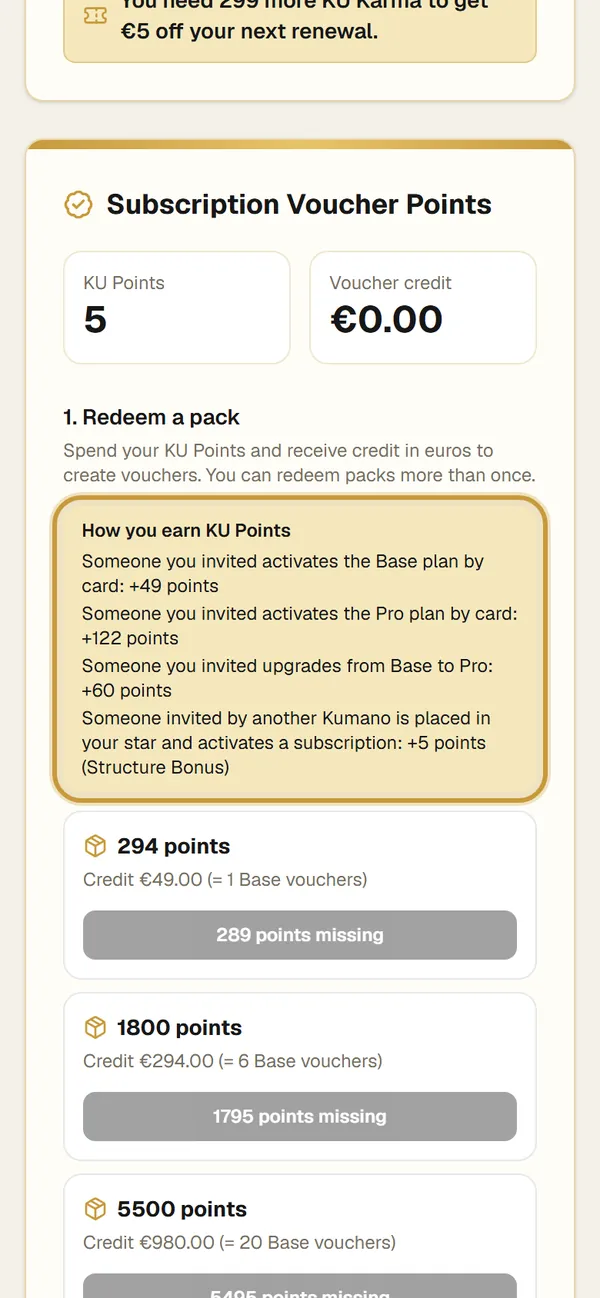
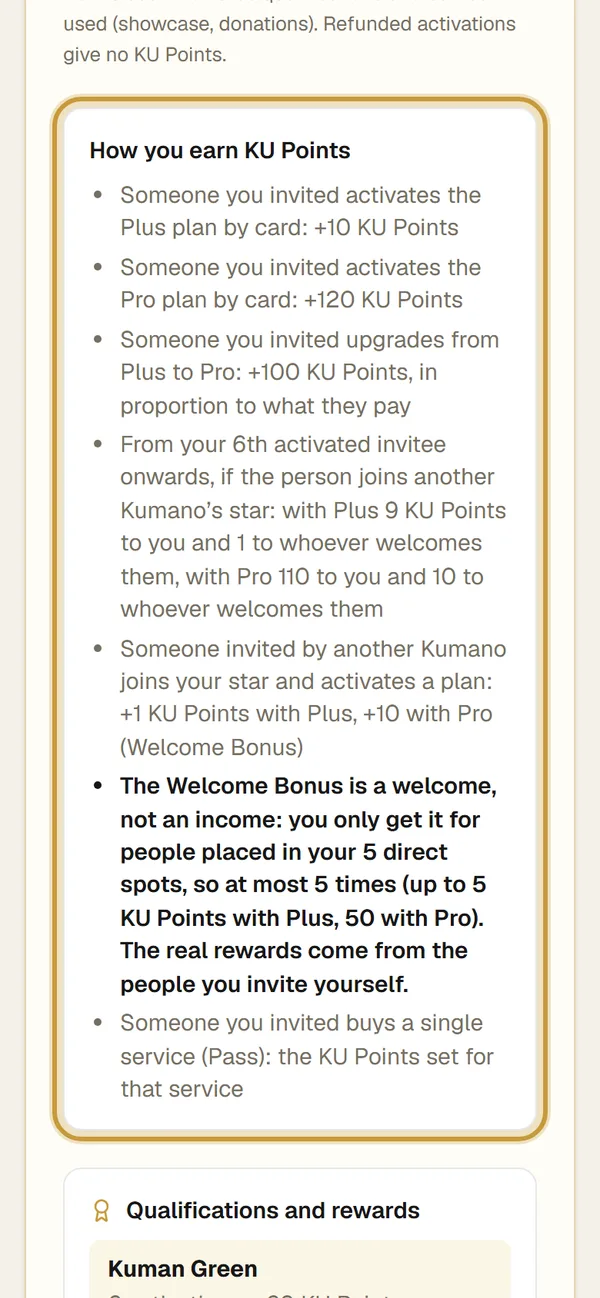
feat: servizi «Solo Staff» per provarli prima di accenderli, schermate guide con il piano Plus
- Admin → Strumenti: tre posizioni (Acceso · Solo Staff · Spento). Con «Solo Staff» gli iscritti
  non vedono il servizio; Admin e Staff lo usano normalmente (tool_online e tool_access nel
  database), con la fascia «Anteprima Staff: gli iscritti non lo vedono» e la sua guida
- Schermate delle guide rifatte senza «Base» (dashboard-3, invito-4, voucher-1/2/3, wallet-1/2/3, it ed en)

diff --git a/src/components/AdminDashboard.tsx b/src/components/AdminDashboard.tsx
@@ -18,7 +18,7 @@ import ListingsReviewPanel from '@/components/admin/ListingsReviewPanel'
 import FoundersPanel from '@/components/admin/FoundersPanel'
 import {
   adminUpdateProfile,
-  adminSetToolEnabled,
+  adminSetToolState,
   adminSetUserRole,
   adminGetUserRole,
   impersonateUser,
@@ -70,8 +70,6 @@ import {
   Activity,
   BarChart3,
   Lock,
-  ToggleLeft,
-  ToggleRight,
   X,
   Save,
   Pencil,
@@ -581,9 +579,9 @@ export default function AdminDashboard({ permissions, userName, locale, initialS
     setSavingTool(null)
   }
 
-  const toggleToolEnabled = async (toolName: string, currentStatus: boolean) => {
+  const setToolState = async (toolName: string, state: 'on' | 'off' | 'staff') => {
     setSavingTool(toolName)
-    const result = await adminSetToolEnabled(toolName, !currentStatus)
+    const result = await adminSetToolState(toolName, state)
     if (result.success) {
       await loadMarketplaceData()
     } else {
@@ -1113,7 +1111,8 @@ L'accesso viene registrato.`))) return
           <p className="text-gray-600 mt-1">
             Abilita o disabilita gli strumenti e scegli per ognuno il piano richiesto: <strong>Gratis</strong> (tutti gli
             iscritti), <strong>Plus</strong> (abbonamento 49 €/anno) o <strong>Pro</strong> (149 €/anno, include il Plus).
-            La scelta vale subito ovunque, anche per gli strumenti che verranno aggiunti.
+            La scelta vale subito ovunque, anche per gli strumenti che verranno aggiunti. Con <strong>Solo Staff</strong> lo
+            strumento resta nascosto agli iscritti, mentre tu e lo Staff lo usate per provarlo prima di accenderlo.
           </p>
         </div>
 
@@ -1146,25 +1145,44 @@ L'accesso viene registrato.`))) return
             {isOpen && (
             <div className="grid grid-cols-1 gap-4 border-t border-gray-100 bg-gray-50/60 p-4 md:grid-cols-2">
               {group.tools.map((tool) => (
-                <div key={tool.tool_name} id={`tool-${tool.tool_name}`} className={`bg-white p-6 rounded-xl border shadow-sm scroll-mt-24 ${!tool.is_enabled ? 'opacity-60 bg-gray-50' : ''} ${focusTool === tool.tool_name ? 'ring-4 ring-[var(--gold)]/60' : ''}`}>
+                <div key={tool.tool_name} id={`tool-${tool.tool_name}`} className={`bg-white p-6 rounded-xl border shadow-sm scroll-mt-24 ${!tool.is_enabled && !tool.staff_preview ? 'opacity-60 bg-gray-50' : ''} ${focusTool === tool.tool_name ? 'ring-4 ring-[var(--gold)]/60' : ''}`}>
                   <div className="flex items-start justify-between mb-4">
                     <div>
                       <h3 className="text-lg font-bold text-gray-900">{toolTitle(tool.tool_name)}</h3>
                       <p className="font-mono text-xs text-gray-400">{tool.tool_name}</p>
                       <p className="text-sm text-gray-500 mt-1">{tool.description || 'Strumento del marketplace'}</p>
                     </div>
-                    <button
-                      onClick={() => toggleToolEnabled(tool.tool_name, tool.is_enabled)}
-                      disabled={savingTool === tool.tool_name}
-                      className="focus:outline-none"
-                    >
-                      {tool.is_enabled ? (
-                        <ToggleRight className="w-14 h-8 text-green-500" />
-                      ) : (
-                        <ToggleLeft className="w-14 h-8 text-gray-400" />
-                      )}
-                    </button>
                   </div>
+                  <div className="mb-4 flex flex-wrap items-center gap-2">
+                    <span className="text-xs text-gray-500 uppercase">Stato</span>
+                    <div className="flex rounded-lg border border-gray-200 overflow-hidden">
+                      {([['on', 'Acceso'], ['staff', 'Solo Staff'], ['off', 'Spento']] as const).map(([state, label]) => {
+                        const active = (tool.is_enabled ? 'on' : tool.staff_preview ? 'staff' : 'off') === state
+                        return (
+                          <button
+                            key={state}
+                            type="button"
+                            onClick={() => !active && setToolState(tool.tool_name, state)}
+                            disabled={savingTool === tool.tool_name}
+                            className={`px-3 py-1 text-xs font-semibold ${
+                              active
+                                ? state === 'on'
+                                  ? 'bg-green-600 text-white'
+                                  : state === 'staff'
+                                    ? 'bg-[#7c3aed] text-white'
+                                    : 'bg-gray-700 text-white'
+                                : 'bg-white text-gray-600 hover:bg-gray-100'
+                            }`}
+                          >
+                            {label}
+                          </button>
+                        )
+                      })}
+                    </div>
+                  </div>
+                  {!tool.is_enabled && tool.staff_preview && (
+                    <p className="mb-4 rounded-lg bg-violet-50 px-3 py-2 text-xs text-violet-800">Gli iscritti non lo vedono: tu e lo Staff lo aprite e lo provate normalmente.</p>
+                  )}
                   <div className="mb-4 flex items-center gap-2">
                     <span className="text-xs text-gray-500 uppercase">Piano richiesto</span>
                     <div className="flex rounded-lg border border-gray-200 overflow-hidden">
@@ -1204,8 +1222,8 @@ L'accesso viene registrato.`))) return
                       <div className="text-xs text-gray-500 uppercase">Utilizzi Totali</div>
                       <div className="text-2xl font-bold text-[var(--gold)]">{tool.usage_count}</div>
                     </div>
-                    <div className={`px-3 py-1 rounded-full text-xs font-semibold ${tool.is_enabled ? 'bg-green-100 text-green-700' : 'bg-red-100 text-red-700'}`}>
-                      {tool.is_enabled ? 'ATTIVO' : 'DISATTIVO'}
+                    <div className={`px-3 py-1 rounded-full text-xs font-semibold ${tool.is_enabled ? 'bg-green-100 text-green-700' : tool.staff_preview ? 'bg-violet-100 text-violet-700' : 'bg-red-100 text-red-700'}`}>
+                      {tool.is_enabled ? 'ATTIVO' : tool.staff_preview ? 'SOLO STAFF' : 'DISATTIVO'}
                     </div>
                   </div>
                   {savingTool === tool.tool_name && (

diff --git a/src/lib/freeTools.ts b/src/lib/freeTools.ts
@@ -1,6 +1,8 @@
+import { cache } from 'react'
 import { unstable_cache } from 'next/cache'
 import { createClient as createServiceClient } from '@supabase/supabase-js'
 import { LEGACY_PAID_TOOLS, type RequiredPlan } from '@/lib/plans'
+import { getSessionIsAdmin, getSessionUser } from '@/lib/session'
 
 // Servizi gratuiti (piano richiesto "free", deciso dall'Admin in
 // marketplace_settings): vengono mostrati per primi in ogni categoria.
@@ -8,21 +10,23 @@ import { LEGACY_PAID_TOOLS, type RequiredPlan } from '@/lib/plans'
 // e tenuto in memoria un'ora (svuotata quando l'Admin cambia un piano).
 export const TOOL_PLANS_CACHE_TAG = 'tool-plans'
 export type ToolPlans = Record<string, string>
-type ToolSettings = { plans: ToolPlans; disabled: string[] }
+// preview: spenti per gli iscritti ma aperti allo Staff («Solo Staff»)
+type ToolSettings = { plans: ToolPlans; disabled: string[]; preview: string[] }
 
 const fetchToolPlans = unstable_cache(
   async (): Promise<ToolSettings> => {
     const service = createServiceClient(process.env.NEXT_PUBLIC_SUPABASE_URL!, process.env.SUPABASE_SERVICE_ROLE_KEY!, {
       auth: { autoRefreshToken: false, persistSession: false },
     })
-    const { data, error } = await service.from('marketplace_settings').select('tool_name, required_plan, is_enabled')
-    if (error || !data) return { plans: {}, disabled: [] }
+    const { data, error } = await service.from('marketplace_settings').select('tool_name, required_plan, is_enabled, staff_preview')
+    if (error || !data) return { plans: {}, disabled: [], preview: [] }
     return {
       plans: Object.fromEntries(data.map((row) => [row.tool_name as string, (row.required_plan as string) ?? ''])),
       disabled: data.filter((row) => row.is_enabled === false).map((row) => row.tool_name as string),
+      preview: data.filter((row) => row.is_enabled === false && row.staff_preview === true).map((row) => row.tool_name as string),
     }
   },
-  ['tool-settings'],
+  ['tool-settings-preview'],
   { revalidate: 3600, tags: [TOOL_PLANS_CACHE_TAG] }
 )
 
@@ -59,6 +63,27 @@ export async function getDisabledTools(): Promise<string[]> {
   } catch {
     return []
   }
+}
+
+// Servizi «Solo Staff» per chi guarda: tutti per lo Staff, nessuno per gli
+// iscritti. Legge la sessione: solo nelle pagine dinamiche.
+export const getStaffPreviewTools = cache(async (): Promise<string[]> => {
+  try {
+    const preview = (await fetchToolPlans()).preview ?? []
+    if (!preview.length) return []
+    const user = await getSessionUser()
+    if (!user || !(await getSessionIsAdmin(user.id))) return []
+    return preview
+  } catch {
+    return []
+  }
+})
+
+// Spenti per chi guarda: come getDisabledTools, ma lo Staff vede anche quelli
+// in anteprima. Solo nelle pagine dinamiche (legge la sessione).
+export async function getHiddenTools(): Promise<string[]> {
+  const [disabled, preview] = await Promise.all([getDisabledTools(), getStaffPreviewTools()])
+  return disabled.filter((tool) => !preview.includes(tool))
 }
 
 // Quanti tra i servizi indicati sono accesi (spenti dall'Admin = esclusi):

diff --git a/src/app/[locale]/guida/[slug]/page.tsx b/src/app/[locale]/guida/[slug]/page.tsx
@@ -11,7 +11,7 @@ import { createClient } from '@/lib/supabase/server'
 import { getGuidesContent, guideShot, PUBLIC_GUIDES } from '@/lib/guides/content'
 import type { GuideSlug } from '@/lib/guides/types'
 import { HUB_TABS, hubOf } from '@/lib/serviceHubs'
-import { getDisabledTools } from '@/lib/freeTools'
+import { getHiddenTools, getStaffPreviewTools } from '@/lib/freeTools'
 
 // Dati personali, legati a un codice o che cambiano: sempre calcolata a ogni
 // richiesta, mai preparata in anticipo né tenuta in memoria
@@ -26,7 +26,7 @@ export async function generateMetadata({ params }: Props): Promise<Metadata> {
   const { slug } = await params
   const locale = await getLocale()
   const t = await getTranslations('guides')
-  const guide = (await getGuidesContent(locale)).guides.find((g) => g.slug === slug)
+  const guide = (await getGuidesContent(locale, await getStaffPreviewTools())).guides.find((g) => g.slug === slug)
   if (!guide) return { title: t('metaTitle') }
   return pageMetadata(`/guida/${guide.slug}`, {
     title: { absolute: `${guide.title} · ${t('linkLabel')} KUMANI` },
@@ -50,7 +50,8 @@ export default async function GuidePage({ params, searchParams }: Props) {
   const isPublic = PUBLIC_GUIDES.includes(slug as GuideSlug)
   if (!user && !isPublic) redirect(`/${locale}/login?next=${encodeURIComponent(`/guida/${slug}`)}`)
   // Senza accesso si scorre solo tra le guide pubbliche
-  const all = (await getGuidesContent(locale)).guides
+  // Lo Staff vede anche le guide dei servizi «Solo Staff»
+  const all = (await getGuidesContent(locale, await getStaffPreviewTools())).guides
   const guides = user ? all : all.filter((g) => PUBLIC_GUIDES.includes(g.slug))
   const index = guides.findIndex((g) => g.slug === slug)
   if (index < 0) notFound()
@@ -63,7 +64,7 @@ export default async function GuidePage({ params, searchParams }: Props) {
   const where = hubOf(guide.cta.href, '')
   let hubNote: { hub: string; tabs: string } | null = null
   if (where) {
-    const [tHubs, disabled] = await Promise.all([getTranslations('serviceHubs'), getDisabledTools()])
+    const [tHubs, disabled] = await Promise.all([getTranslations('serviceHubs'), getHiddenTools()])
     const others = HUB_TABS[where.hub]
       .filter((tab) => tab.key !== where.tab && (!tab.tool || !disabled.includes(tab.tool)))
       .map((tab) => tHubs(`${where.hub}.tab_${tab.key}`))

diff --git a/src/lib/marketplaceAccess.ts b/src/lib/marketplaceAccess.ts
@@ -1,5 +1,6 @@
 import type { SupabaseClient } from '@supabase/supabase-js'
 import { LEGACY_PAID_TOOLS, planCovers, type RequiredPlan, type UserPlan } from '@/lib/plans'
+import { getStaffPreviewTools } from '@/lib/freeTools'
 
 export type ToolDisabledReason = 'offline' | 'subscription' | 'pro'
 
@@ -36,11 +37,13 @@ type SettingRow = { tool_name: string; is_enabled: boolean; required_plan?: Requ
 export async function getMarketplaceAccessState(supabase: SupabaseClient, userId: string): Promise<MarketplaceAccessState> {
   // Impostazioni, piano e prova Pro: tre letture indipendenti, insieme
   // (più i pass dei singoli servizi già attivati)
-  const [withPass, planResult, trialResult, passResult] = await Promise.all([
+  // (più i servizi «Solo Staff», aperti se chi guarda è dello Staff)
+  const [withPass, planResult, trialResult, passResult, preview] = await Promise.all([
     supabase.from('marketplace_settings').select('tool_name, is_enabled, required_plan, pass_enabled, pass_price_cents'),
     supabase.rpc('my_plan'),
     supabase.rpc('my_trial_only'),
     supabase.rpc('my_tool_passes'),
+    getStaffPreviewTools(),
   ])
   let settings: SettingRow[] = []
   // Migrazione dei pass non ancora applicata: si legge senza le loro colonne
@@ -78,12 +81,13 @@ export async function getMarketplaceAccessState(supabase: SupabaseClient, userId
       : []
   )
 
-  const isSettingEnabled = (toolName: string) => byTool.get(toolName)?.is_enabled !== false
+  const isSettingEnabled = (toolName: string) => byTool.get(toolName)?.is_enabled !== false || preview.includes(toolName)
   const requiredPlan = (toolName: string): RequiredPlan =>
     byTool.get(toolName)?.required_plan ?? (LEGACY_PAID_TOOLS.includes(toolName) ? 'base' : 'free')
   const isToolEnabled = (toolName: string) =>
     isSettingEnabled(toolName) &&
     (OPEN_TO_ALL_MEMBERS.includes(toolName) ||
+      preview.includes(toolName) ||
       (planCovers(userPlan, requiredPlan(toolName)) && !(trialOnly && requiredPlan(toolName) === 'base')) ||
       passes.has(toolName))
   const disabledReason = (toolName: string): ToolDisabledReason | undefined => {

diff --git a/src/app/[locale]/marketplace/layout.tsx b/src/app/[locale]/marketplace/layout.tsx
@@ -6,6 +6,8 @@ import { getTranslations } from 'next-intl/server'
 import { getMarketplaceTools } from '@/lib/marketplaceTools'
 import { guestTrial } from '@/lib/trials'
 import { getServiceVideos } from '@/lib/serviceVideos'
+import { getStaffPreviewTools } from '@/lib/freeTools'
+import StaffPreviewBanner from '@/components/StaffPreviewBanner'
 
 // Layout comune del marketplace: aggiunge il pulsante "Condividi" dentro
 // ogni strumento e, in fondo alla pagina principale di ogni servizio, la
@@ -52,14 +54,22 @@ export default async function MarketplaceLayout({ children }: { children: React.
   let referralCode: string | null = null
   // Servizi con il video ufficiale: dentro il servizio «Invia il video»
   let videoTools: string[] = []
+  // Servizi «Solo Staff» aperti da chi è dello Staff: la fascia «Anteprima»
+  let preview: { hrefs: string[]; label: string } | null = null
   if (user) {
-    const [{ data }, videos] = await Promise.all([supabase.rpc('get_my_profile').maybeSingle<{ referral_code: string | null }>(), getServiceVideos()])
+    const [{ data }, videos, previewTools] = await Promise.all([supabase.rpc('get_my_profile').maybeSingle<{ referral_code: string | null }>(), getServiceVideos(), getStaffPreviewTools()])
     referralCode = data?.referral_code ?? null
     videoTools = Object.keys(videos)
+    if (previewTools.length) {
+      const tm = await getTranslations('marketplace')
+      const hrefs = getMarketplaceTools(tm).filter((tool) => previewTools.includes(tool.toolName)).map((tool) => tool.href)
+      preview = { hrefs, label: tm('staffPreviewBanner') }
+    }
   }
 
   return (
     <>
+      {preview && <StaffPreviewBanner hrefs={preview.hrefs} label={preview.label} />}
       {children}
       {user && <RelatedServices />}
       {user && <ToolShareButton referralCode={referralCode} videoTools={videoTools} />}

diff --git a/src/lib/guides/content/index.ts b/src/lib/guides/content/index.ts
@@ -9,7 +9,8 @@ export const PUBLIC_GUIDES: GuideSlug[] = ['registrazione', 'accesso']
 
 // Testi delle guide dai file delle lingue (namespace "guideTexts"), con le
 // correzioni dei traduttori già applicate. Letti "raw": niente segnaposto.
-export async function getGuidesContent(locale: string): Promise<GuidesContent> {
+// visible: servizi spenti da mostrare comunque (lo Staff in anteprima).
+export async function getGuidesContent(locale: string, visible: string[] = []): Promise<GuidesContent> {
   const [t, disabled] = await Promise.all([getTranslations({ locale, namespace: 'guideTexts' }), getDisabledTools()])
   const text = (key: string) => String(t.raw(key) ?? '')
 
@@ -19,7 +20,7 @@ export async function getGuidesContent(locale: string): Promise<GuidesContent> {
 
   // Le guide dei servizi spenti dall'Admin non si vedono (es. un servizio
   // pronto ma non ancora annunciato)
-  const guides = GUIDE_STRUCTURE.filter((g) => !disabled.includes(g.slug)).map((g) => {
+  const guides = GUIDE_STRUCTURE.filter((g) => !disabled.includes(g.slug) || visible.includes(g.slug)).map((g) => {
     const k = g.slug.replace(/-/g, '_')
     const steps: GuideStep[] = Array.from({ length: g.steps }, (_, i) => {
       const n = i + 1

diff --git a/src/app/actions/admin.ts b/src/app/actions/admin.ts
@@ -194,12 +194,17 @@ function refreshToolPages() {
   revalidatePath('/[locale]/strumenti/[tool]', 'page')
 }
 
-export async function adminSetToolEnabled(toolName: string, enabled: boolean) {
+// Tre posizioni: acceso, spento, «Solo Staff» (spento per gli iscritti ma
+// aperto ad amministratori e Staff, per provarlo prima di annunciarlo)
+export type ToolState = 'on' | 'off' | 'staff'
+
+export async function adminSetToolState(toolName: string, state: ToolState) {
   const admin = await verifyAdmin('marketplace.write')
   if (!admin) return { success: false, error: 'Non autorizzato' }
+  if (!['on', 'off', 'staff'].includes(state)) return { success: false, error: 'Stato non valido' }
   const { error } = await getServiceClient()
     .from('marketplace_settings')
-    .update({ is_enabled: enabled, updated_at: new Date().toISOString() })
+    .update({ is_enabled: state === 'on', staff_preview: state === 'staff', updated_at: new Date().toISOString() })
     .eq('tool_name', toolName)
   if (error) return { success: false, error: error.message }
   refreshToolPages()

diff --git a/src/components/StaffPreviewBanner.tsx b/src/components/StaffPreviewBanner.tsx
@@ -1,0 +1,21 @@
+'use client'
+
+import { usePathname } from 'next/navigation'
+import { EyeOff } from 'lucide-react'
+import { locales } from '../../i18n'
+
+// Fascia in cima ai servizi «Solo Staff» (spenti per gli iscritti, aperti
+// allo Staff per provarli): ricorda che gli iscritti non li vedono ancora.
+export default function StaffPreviewBanner({ hrefs, label }: { hrefs: string[]; label: string }) {
+  const pathname = usePathname()
+  const segments = pathname.split('/').filter(Boolean)
+  if (segments[0] && locales.includes(segments[0])) segments.shift()
+  const path = `/${segments.join('/')}`
+  if (!hrefs.some((href) => path === href || path.startsWith(`${href}/`))) return null
+  return (
+    <div role="status" className="relative z-30 flex items-center justify-center gap-2 bg-[#7c3aed] px-4 py-1.5 text-center text-xs font-bold text-white print:hidden">
+      <EyeOff className="h-3.5 w-3.5 shrink-0" aria-hidden />
+      {label}
+    </div>
+  )
+}

diff --git a/src/components/hubs/HubBar.tsx b/src/components/hubs/HubBar.tsx
@@ -3,7 +3,7 @@ import HubNav from '@/components/hubs/HubNav'
 import { createClient } from '@/lib/supabase/server'
 import { getMarketplaceAccessState } from '@/lib/marketplaceAccess'
 import { HUB_TOOLS } from '@/lib/serviceHubs'
-import { getDisabledTools } from '@/lib/freeTools'
+import { getHiddenTools } from '@/lib/freeTools'
 import { getFavoriteToolNames } from '@/lib/favorites'
 
 // Barra dei servizi uniti (vedi lib/serviceHubs) con i lucchetti
@@ -14,7 +14,7 @@ export default async function HubBar() {
     data: { user },
   } = await supabase.auth.getUser()
   // Spenti dall'Admin: la scheda non si mostra; fuori dal piano: lucchetto
-  const hidden = (await getDisabledTools()).filter((tool) => HUB_TOOLS.has(tool))
+  const hidden = (await getHiddenTools()).filter((tool) => HUB_TOOLS.has(tool))
   let locked: string[] = []
   // Servizi già nella Home (stella «Nella Home» del servizio aperto)
   let favorites: string[] | null = null

diff --git a/src/app/[locale]/marketplace/diarium/page.tsx b/src/app/[locale]/marketplace/diarium/page.tsx
@@ -5,7 +5,7 @@ import HubBar from '@/components/hubs/HubBar'
 import DiariumApp from '@/components/diarium/DiariumApp'
 import { listDiariumPlans } from '@/app/actions/diarium'
 import { toolMetadata } from '@/lib/toolMetadata'
-import { getDisabledTools } from '@/lib/freeTools'
+import { getHiddenTools } from '@/lib/freeTools'
 
 // Nome del servizio nella scheda del browser
 export const generateMetadata = toolMetadata('diarium')
@@ -16,7 +16,7 @@ export default async function DiariumPage() {
   const t = await getTranslations('diarium')
   const tm = await getTranslations('marketplace')
   const tc = await getTranslations('common')
-  const [plans, disabled] = await Promise.all([listDiariumPlans(), getDisabledTools()])
+  const [plans, disabled] = await Promise.all([listDiariumPlans(), getHiddenTools()])
 
   return (
     <div className="min-h-screen bg-[var(--background)]">

diff --git a/src/lib/adminTypes.ts b/src/lib/adminTypes.ts
@@ -75,6 +75,8 @@ export type AdminProfileForm = Partial<{
 export type MarketplaceToolRow = {
   tool_name: string
   is_enabled: boolean
+  // «Solo Staff»: spento per gli iscritti, aperto allo Staff (20270423100000_staff_preview.sql)
+  staff_preview?: boolean | null
   required_plan: 'free' | 'base' | 'pro' | null
   description: string | null
   // Pass del singolo servizio (20261210100000_tool_passes.sql)
